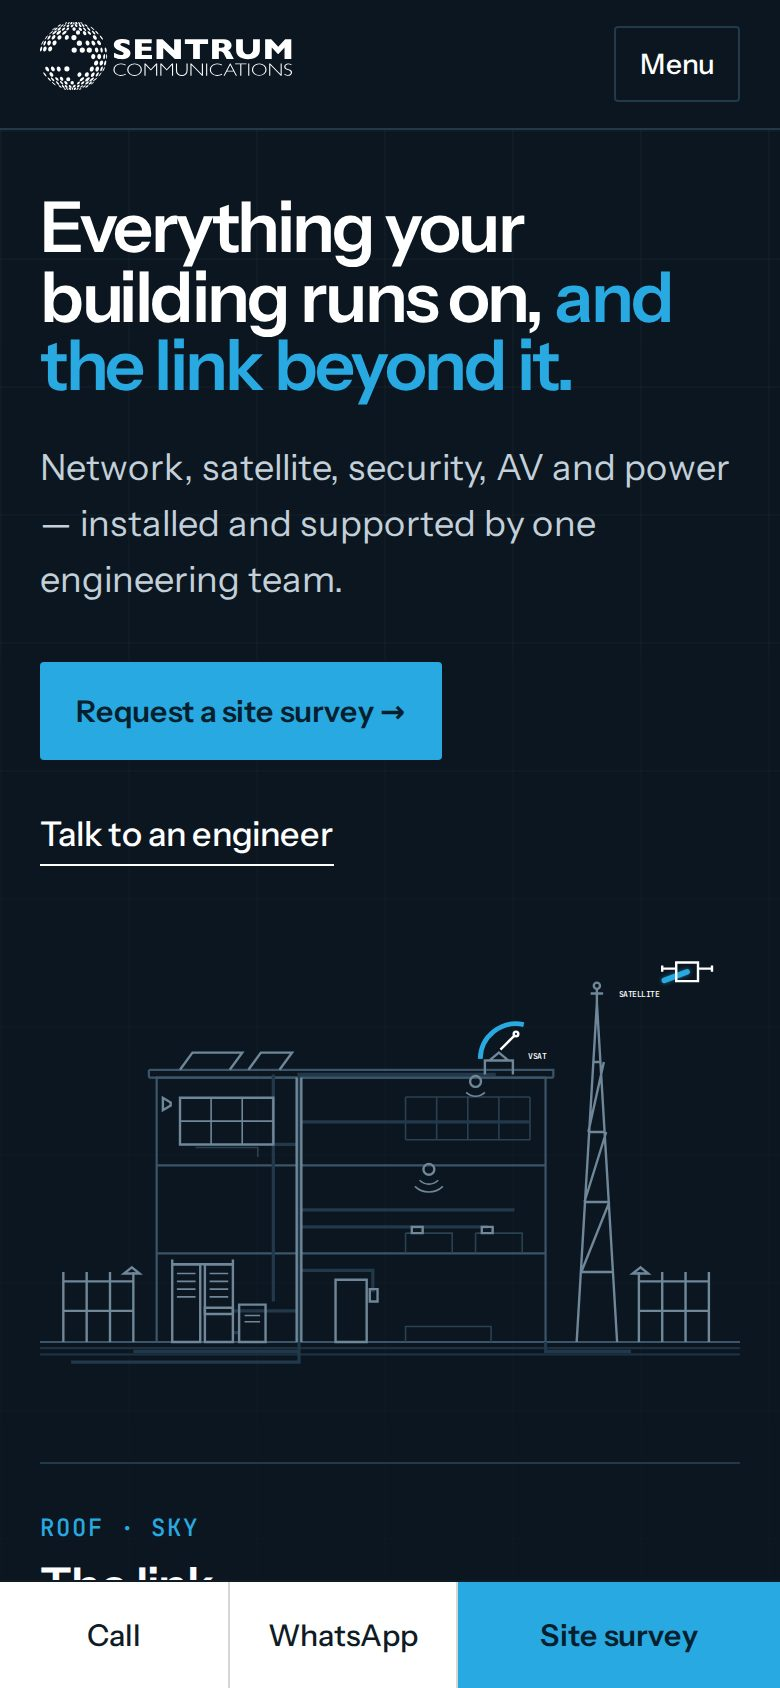
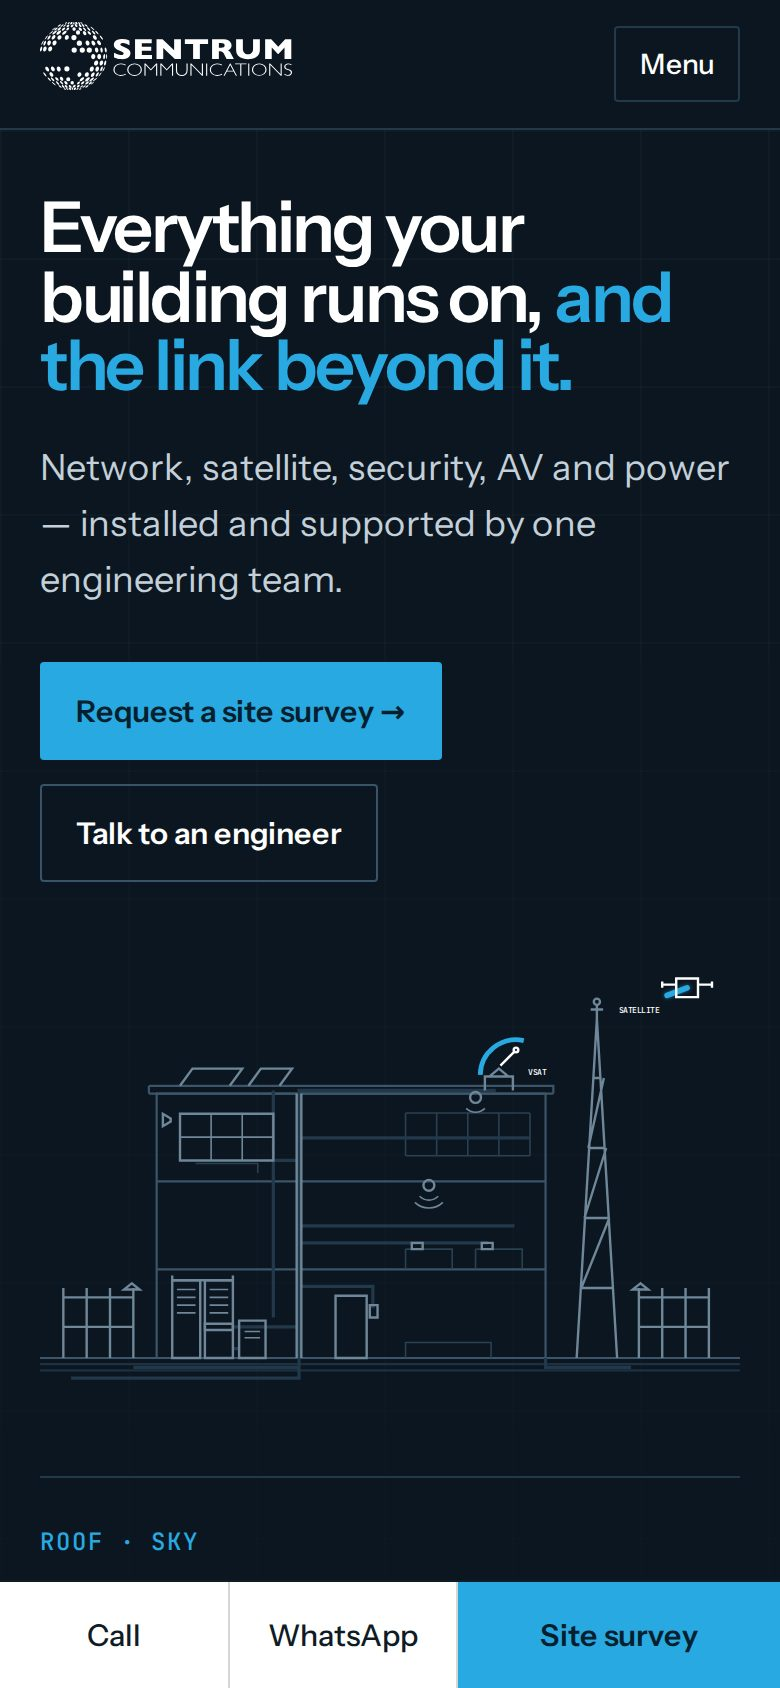
Hero secondary CTA as button; carousel control directions A–C for selection
Claude-Session: https://claude.ai/code/session_012Rx9eMuu6bmZVFpXLF2Pf9

diff --git a/design/controls.html b/design/controls.html
@@ -1,0 +1,144 @@
+<!doctype html>
+<html lang="en-KE">
+<head>
+<meta charset="utf-8">
+<meta name="viewport" content="width=device-width, initial-scale=1">
+<title>Carousel Controls — Sentrum</title>
+<style>
+@font-face{font-family:"Instrument Sans";src:url(assets/fonts/instrument-sans-latin-400-normal.woff2) format("woff2");font-weight:400}
+@font-face{font-family:"Instrument Sans";src:url(assets/fonts/instrument-sans-latin-500-normal.woff2) format("woff2");font-weight:500}
+@font-face{font-family:"Instrument Sans";src:url(assets/fonts/instrument-sans-latin-600-normal.woff2) format("woff2");font-weight:600}
+@font-face{font-family:"JetBrains Mono";src:url(assets/fonts/jetbrains-mono-latin-500-normal.woff2) format("woff2");font-weight:500}
+:root{--night:#0B1620;--line:#22394B;--fog:#8FA6B6;--text:#C3D0D9;--blue:#29A9E1;--dur:7s;
+--f:"Instrument Sans",system-ui,sans-serif;--m:"JetBrains Mono",ui-monospace,monospace}
+*{box-sizing:border-box;margin:0}
+body{background:var(--night);color:#fff;font:400 16px/1.55 var(--f);padding:48px clamp(16px,5vw,72px) 80px}
+h1{font-size:28px;font-weight:600;letter-spacing:-.02em}
+.intro{color:var(--fog);margin-top:8px;max-width:60ch}
+.grid{display:grid;grid-template-columns:repeat(3,minmax(0,1fr));gap:24px;margin-top:40px}
+.opt{border:1px solid var(--line);padding:28px 28px 32px;display:flex;flex-direction:column;min-width:0}
+.opt>header{display:flex;justify-content:space-between;align-items:baseline;margin-bottom:28px}
+.opt>header b{font-size:20px;font-weight:600}
+.opt>header span{font:500 11px var(--m);letter-spacing:.08em;text-transform:uppercase;color:var(--fog)}
+.note{color:var(--fog);font-size:14px;margin-top:auto;padding-top:28px;border-top:1px solid var(--line)}
+.note b{color:#fff;font-weight:500}
+/* shared slide mock */
+.slides{position:relative;min-height:128px}
+.slide{position:absolute;inset:0 0 auto;opacity:0;transform:translateX(12px);transition:opacity .45s,transform .45s}
+.slide.on{opacity:1;transform:none}
+.slide .w{font:500 11px var(--m);letter-spacing:.08em;text-transform:uppercase;color:var(--blue)}
+.slide h3{font-size:26px;font-weight:600;letter-spacing:-.02em;margin:6px 0 4px}
+.slide p{color:var(--text);font-size:15px}
+button{font:inherit}
+:focus-visible{outline:2px solid #fff;outline-offset:3px}
+@keyframes fill{from{transform:scaleX(0)}to{transform:scaleX(1)}}
+@keyframes ring{from{stroke-dashoffset:113}to{stroke-dashoffset:0}}
+.paused *{animation-play-state:paused!important}
+
+/* A — one hairline */
+.a .ctl{display:flex;align-items:center;gap:18px;margin-top:24px}
+.a .track{flex:1;height:2px;background:var(--line);position:relative;cursor:pointer}
+.a .track i{position:absolute;top:0;bottom:0;left:calc(var(--i)*100%/6);width:calc(100%/6);transition:left .45s}
+.a .track i::after{content:"";position:absolute;inset:0;background:var(--blue);transform-origin:left;animation:fill var(--dur) linear forwards}
+.a .track b{position:absolute;left:0;top:0;bottom:0;width:calc(var(--i)*100%/6);background:var(--fog);opacity:.5;transition:width .45s}
+.a .txt{all:unset;cursor:pointer;font:500 12px var(--m);letter-spacing:.06em;color:var(--fog);padding:6px 2px}
+.a .txt:hover{color:#fff}
+
+/* B — dots that stretch */
+.b .ctl{display:flex;align-items:center;gap:10px;margin-top:24px}
+.b .dots{display:flex;align-items:center;gap:10px}
+.b .dot{all:unset;cursor:pointer;width:8px;height:8px;border-radius:8px;background:var(--line);position:relative;overflow:hidden;transition:width .45s,background .3s}
+.b .dot:hover{background:var(--fog)}
+.b .dot.done{background:var(--fog)}
+.b .dot.on{width:44px;background:var(--line)}
+.b .dot.on::after{content:"";position:absolute;inset:0;background:var(--blue);transform-origin:left;animation:fill var(--dur) linear forwards}
+.b .dot:focus-visible{outline-offset:4px}
+.b .hint{margin-left:auto;font:500 11px var(--m);letter-spacing:.06em;color:var(--fog);text-transform:uppercase}
+
+/* C — index ring */
+.c .ctl{display:flex;align-items:center;gap:14px;margin-top:24px}
+.c .ring{all:unset;cursor:pointer;position:relative;width:44px;height:44px;display:grid;place-items:center}
+.c .ring svg{position:absolute;inset:0;transform:rotate(-90deg)}
+.c .ring circle{fill:none;stroke-width:2}
+.c .ring .bg{stroke:var(--line)}
+.c .ring .fg{stroke:var(--blue);stroke-dasharray:113;animation:ring var(--dur) linear forwards}
+.c .ring span{font:500 13px var(--m);color:#fff}
+.c .ring:hover span{opacity:0}.c .ring::after{content:"❚❚";position:absolute;font-size:10px;color:#fff;opacity:0;letter-spacing:-1px}
+.c .ring:hover::after{opacity:1}.c.paused .ring::after{content:"▶";opacity:1;font-size:11px}.c.paused .ring span{opacity:0}
+.c .of{font:500 12px var(--m);color:var(--fog)}
+.c .arw{all:unset;cursor:pointer;color:var(--fog);font-size:18px;padding:4px 6px;line-height:1}
+.c .arw:hover{color:#fff}
+.c .next-name{margin-left:auto;font-size:13px;color:var(--fog)}
+.c .next-name b{color:#fff;font-weight:500}
+@media (max-width:1000px){.grid{grid-template-columns:1fr}}
+@media (prefers-reduced-motion:reduce){*{animation:none!important;transition:none!important}}
+</style>
+</head>
+<body>
+<h1>Carousel controls — three directions</h1>
+<p class="intro">All three keep auto-advance, scroll stepping, swipe and keyboard. They differ only in how much control is shown. Each demo below is live.</p>
+<div class="grid">
+
+<section class="opt a" data-car>
+  <header><b>A · Hairline</b><span>quietest</span></header>
+  <div class="slides"></div>
+  <div class="ctl">
+    <div class="track" role="slider" aria-label="System" tabindex="0"><b></b><i></i></div>
+    <button class="txt" data-toggle aria-label="Pause">Pause</button>
+  </div>
+  <p class="note"><b>One thin line across the width.</b> The blue segment is the current system and fills as it plays; earlier ones stay grey. Click anywhere on the line to jump. One word, "Pause", is the only button. No arrows, no counter.</p>
+</section>
+
+<section class="opt b" data-car>
+  <header><b>B · Stretch dots</b><span>familiar</span></header>
+  <div class="slides"></div>
+  <div class="ctl"><span class="dots"></span></div>
+  <p class="note"><b>Six small dots.</b> The current one stretches into a short bar that fills over 7 seconds. Tap a dot to jump; tap the active bar to pause or resume. Nothing else on screen.</p>
+</section>
+
+<section class="opt c" data-car>
+  <header><b>C · Index ring</b><span>most informative</span></header>
+  <div class="slides"></div>
+  <div class="ctl">
+    <button class="arw" data-dir="-1" aria-label="Previous">‹</button>
+    <button class="ring" data-toggle aria-label="Pause"><svg viewBox="0 0 44 44" aria-hidden="true"><circle class="bg" cx="22" cy="22" r="18"/><circle class="fg" cx="22" cy="22" r="18"/></svg><span class="num">01</span></button>
+    <span class="of">/ 06</span>
+    <button class="arw" data-dir="1" aria-label="Next">›</button>
+    <span class="next-name">Next: <b class="nx"></b></span>
+  </div>
+  <p class="note"><b>One compact unit.</b> The system number sits inside a ring that fills as it plays; tap the ring to pause. Two plain chevrons step back and forward, and "Next:" tells the visitor what's coming.</p>
+</section>
+
+</div>
+<script>
+const data=[['Roof · sky','The link','VSAT where fibre doesn\'t reach — iDirect, SkyEdge and Comtech.'],['Riser · every floor','The backbone','Copper and fibre on every floor, switching, routing and WiFi.'],['Comms room','The core','Servers, UPS-backed power, electrical fit-outs and solar.'],['Perimeter · network edge','The perimeter','Access control, intrusion sensors and firewalls.'],['Meeting & control rooms','The rooms','IP phones, video conferencing, video walls and AV.'],['Masts · mounts · racks','The steel & support','Masts and mounts made in-house, equipment supplied, support after go-live.']];
+const DUR=7000;
+document.querySelectorAll('[data-car]').forEach(root=>{
+  const sl=root.querySelector('.slides');sl.innerHTML=data.map(d=>`<div class="slide"><p class="w">${d[0]}</p><h3>${d[1]}</h3><p>${d[2]}</p></div>`).join('');
+  const slides=[...sl.children];let cur=0,t=null,paused=false,left=DUR,st=0;
+  const dots=root.querySelector('.dots');if(dots)dots.innerHTML=data.map((d,i)=>`<button class="dot" aria-label="${d[1]}"></button>`).join('');
+  function restart(el){if(!el)return;el.style.animation='none';void el.offsetWidth;el.style.animation='';}
+  function show(i){cur=(i+6)%6;slides.forEach((s,j)=>s.classList.toggle('on',j===cur));
+    root.style.setProperty('--i',cur);
+    const tr=root.querySelector('.track i');if(tr){tr.style.display='none';void tr.offsetWidth;tr.style.display='';}
+    root.querySelectorAll('.dot').forEach((d,j)=>{d.classList.toggle('on',j===cur);d.classList.toggle('done',j<cur);d.setAttribute('aria-current',j===cur)});
+    const fg=root.querySelector('.fg');if(fg){fg.style.animation='none';void fg.getBoundingClientRect();fg.style.animation='';}
+    const n=root.querySelector('.num');if(n)n.textContent=String(cur+1).padStart(2,'0');
+    const nx=root.querySelector('.nx');if(nx)nx.textContent=data[(cur+1)%6][1];
+    left=DUR;go();}
+  function go(){clearTimeout(t);if(paused)return;st=performance.now();t=setTimeout(()=>show(cur+1),left);}
+  function toggle(){paused=!paused;root.classList.toggle('paused',paused);
+    if(paused){clearTimeout(t);left-=performance.now()-st;}else go();
+    root.querySelectorAll('[data-toggle]').forEach(b=>{b.setAttribute('aria-label',paused?'Play':'Pause');if(b.classList.contains('txt'))b.textContent=paused?'Play':'Pause'});}
+  root.querySelectorAll('[data-toggle]').forEach(b=>b.addEventListener('click',toggle));
+  root.querySelectorAll('[data-dir]').forEach(b=>b.addEventListener('click',()=>show(cur+ +b.dataset.dir)));
+  root.querySelectorAll('.dot').forEach((d,j)=>d.addEventListener('click',()=>j===cur?toggle():show(j)));
+  const track=root.querySelector('.track');
+  if(track){track.addEventListener('click',e=>{const r=track.getBoundingClientRect();show(Math.floor((e.clientX-r.left)/r.width*6))});
+    track.addEventListener('keydown',e=>{const d={ArrowRight:1,ArrowLeft:-1}[e.key];if(d){e.preventDefault();show(cur+d)}});}
+  root.addEventListener('keydown',e=>{if(e.target===track)return;const d={ArrowRight:1,ArrowLeft:-1}[e.key];if(d&&e.target.classList.contains('dot')){e.preventDefault();show(cur+d);root.querySelectorAll('.dot')[cur].focus()}});
+  show(0);
+});
+</script>
+</body>
+</html>

diff --git a/design/index.html b/design/index.html
@@ -23,6 +23,7 @@ h1{font-size:clamp(28px,4vw,44px);letter-spacing:-.025em;line-height:1.05;text-w
 <main>
   <h1>Sentrum — homepage directions</h1>
   <p class="intro">Each opens as a full working homepage (desktop and mobile). All use the original Sentrum logo and only facts from the current site. Pick one; the build continues from it.</p>
+  <p class="rec" style="margin-top:24px"><strong>Now choosing:</strong> the carousel controls. <a class="open" href="controls.html">Compare the three control directions →</a></p>
   <section class="row" style="border-top:2px solid var(--fg)"><div><h2>Final · Live Section on night navy</h2><p>Chosen direction. Night-navy hero with a self-advancing systems carousel; the signal draws through the building in sync with each slide. On desktop, scrolling also steps through the systems before the page continues. Remote &amp; satellite on white.</p><a class="open" href="design-final.html">Open the final direction →</a></div><div class="shots"><img src="screenshots/design-final-desktop-fold.jpg" alt="Final direction, desktop"><img src="screenshots/design-final-mobile-fold.jpg" alt="Final direction, mobile"></div></section>
   <section class="row"><div><h2>1 · Cross-Section</h2><p>The whole offer drawn as one building. Scroll and each system lights up in place: networks, security, comms &amp; AV, power, fabrication.</p><a class="open" href="design-1.html">Open direction 1 →</a></div><div class="shots"><img src="screenshots/design-1-desktop-fold.jpg" alt="Direction 1, desktop"><img src="screenshots/design-1-mobile-fold.jpg" alt="Direction 1, mobile"></div></section>
   <section class="row"><div><h2>2 · Register</h2><p>A procurement-grade technical document: company summary sheet and a filterable register of all 14 disciplines.</p><a class="open" href="design-2.html">Open direction 2 →</a></div><div class="shots"><img src="screenshots/design-2-desktop-fold.jpg" alt="Direction 2, desktop"><img src="screenshots/design-2-mobile-fold.jpg" alt="Direction 2, mobile"></div></section>

diff --git a/design/design-final.html b/design/design-final.html
@@ -54,7 +54,9 @@ a{color:inherit}
 .hero h1 em{font-style:normal;color:var(--signal)}
 .hero .lede{font-size:18px;color:var(--on-blue-2);margin-top:20px;max-width:44ch}
 .hero .act{display:flex;gap:24px;align-items:center;margin-top:26px;flex-wrap:wrap}
-.hero .act .link{color:#fff}
+.hero .act{gap:12px}
+.hero .cta.ghost{background:transparent;color:#fff;box-shadow:inset 0 0 0 1px #3A5467}
+.hero .cta.ghost:hover{background:rgba(255,255,255,.06);box-shadow:inset 0 0 0 1px #fff;color:#fff}
 
 .pin{position:relative}
 @media (min-width:961px) and (min-height:680px){
@@ -216,7 +218,7 @@ footer .legal{grid-column:1/-1;border-top:1px solid #2A3844;margin-top:28px;padd
   <div class="intro-b">
     <h1 id="h1">Everything your building runs on, <em>and the link beyond&nbsp;it.</em></h1>
     <p class="lede">Network, satellite, security, AV and power — installed and supported by one engineering team.</p>
-    <div class="act"><a class="cta" href="#contact">Request a site survey →</a><a class="link" href="tel:+254720288713">Talk to an engineer</a></div>
+    <div class="act"><a class="cta" href="#contact">Request a site survey →</a><a class="cta ghost" href="tel:+254720288713">Talk to an engineer</a></div>
   </div>
 
   <div class="car" id="systems" role="region" aria-roledescription="carousel" aria-label="Systems we deliver">

diff --git a/design/src/design-final.html b/design/src/design-final.html
@@ -54,7 +54,9 @@ a{color:inherit}
 .hero h1 em{font-style:normal;color:var(--signal)}
 .hero .lede{font-size:18px;color:var(--on-blue-2);margin-top:20px;max-width:44ch}
 .hero .act{display:flex;gap:24px;align-items:center;margin-top:26px;flex-wrap:wrap}
-.hero .act .link{color:#fff}
+.hero .act{gap:12px}
+.hero .cta.ghost{background:transparent;color:#fff;box-shadow:inset 0 0 0 1px #3A5467}
+.hero .cta.ghost:hover{background:rgba(255,255,255,.06);box-shadow:inset 0 0 0 1px #fff;color:#fff}
 
 .pin{position:relative}
 @media (min-width:961px) and (min-height:680px){
@@ -216,7 +218,7 @@ footer .legal{grid-column:1/-1;border-top:1px solid #2A3844;margin-top:28px;padd
   <div class="intro-b">
     <h1 id="h1">Everything your building runs on, <em>and the link beyond&nbsp;it.</em></h1>
     <p class="lede">Network, satellite, security, AV and power — installed and supported by one engineering team.</p>
-    <div class="act"><a class="cta" href="#contact">Request a site survey →</a><a class="link" href="tel:+254720288713">Talk to an engineer</a></div>
+    <div class="act"><a class="cta" href="#contact">Request a site survey →</a><a class="cta ghost" href="tel:+254720288713">Talk to an engineer</a></div>
   </div>
 
   <div class="car" id="systems" role="region" aria-roledescription="carousel" aria-label="Systems we deliver">
